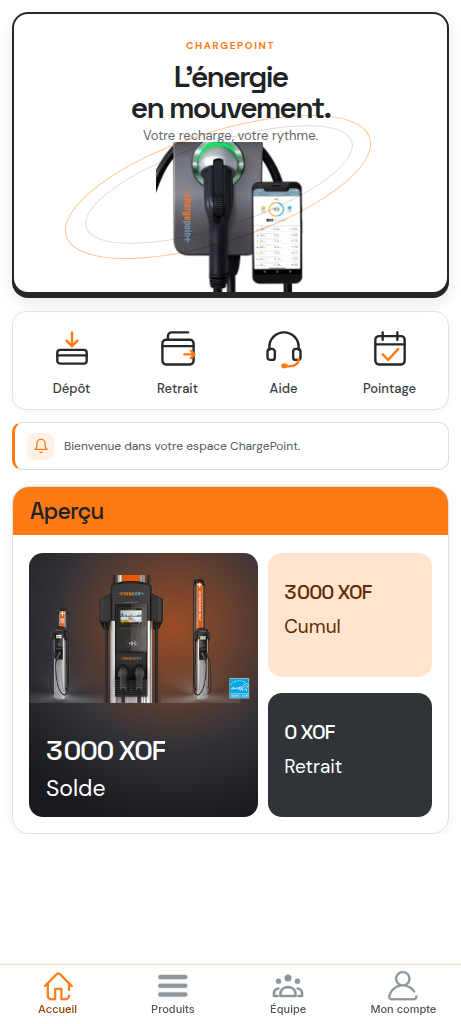
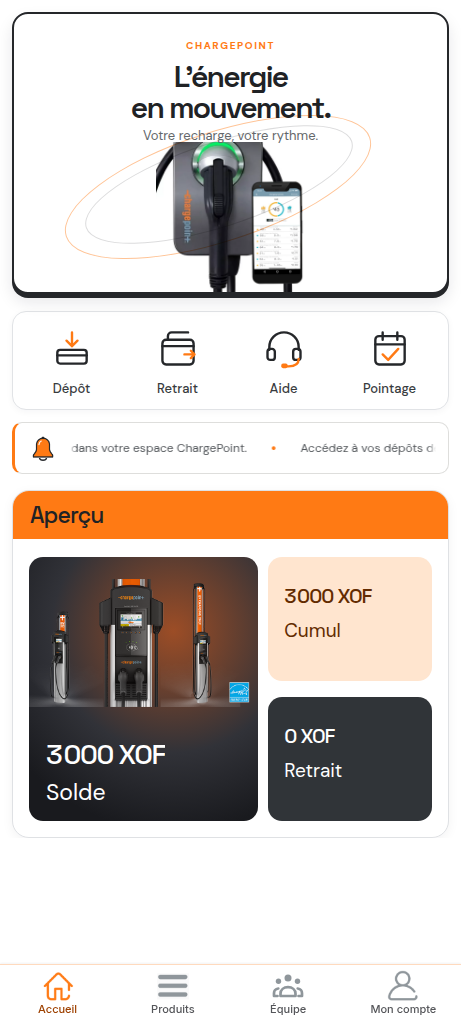
Update agent metadata and enhance home page UI with new assets
Replit-Commit-Author: Agent

diff --git a/client/src/pages/home.tsx b/client/src/pages/home.tsx
@@ -3,11 +3,12 @@ import { useAuth } from "@/lib/auth";
 import { useLocation } from "wouter";
 import { useQuery } from "@tanstack/react-query";
 import { getCountryByCode } from "@/lib/countries";
-import { Bell, PlugZap } from "lucide-react";
+import { PlugZap } from "lucide-react";
 import { Dialog, DialogContent, DialogHeader, DialogTitle } from "@/components/ui/dialog";
 import HomeActionIcon from "@/components/home-action-icon";
 import "./home.css";
 
+import noticeBell from "@/assets/notice-bell.png";
 import homeFlex from "@assets/ChargePoint-Home-Flex-50A-CPH50-app-1280px__29346__78945__7114_1790148214522.png";
 import ct4000 from "@assets/CT4000-Top-main-with-energy-star_1790148214627.png";
 
@@ -23,6 +24,15 @@ const quickActions = [
   { label: "Pointage", href: "/checkin", kind: "checkin" },
 ] as const;
 
+const homeAnnouncements = [
+  "Bienvenue dans votre espace ChargePoint.",
+  "Accédez à vos dépôts depuis l'accueil.",
+  "Suivez vos retraits dans l'application.",
+  "Consultez votre solde dans la rubrique Aperçu.",
+  "Besoin d'aide ? Notre équipe vous accompagne.",
+  "Effectuez votre pointage depuis l'accueil.",
+] as const;
+
 export default function HomePage() {
   const { user } = useAuth();
   const [, navigate] = useLocation();
@@ -35,9 +45,6 @@ export default function HomePage() {
   const currency = country?.currency || "XOF";
   const balance = Number.parseFloat(user.balance || "0");
   const totalEarnings = Number.parseFloat(user.totalEarnings || "0");
-  const noticeText = settings?.noticeText && !/stone by ton|pierres naturelles|travertin/i.test(settings.noticeText)
-    ? settings.noticeText
-    : "Bienvenue dans votre espace ChargePoint.";
   const groupLink = settings?.groupLink || "";
   const formatMoney = (amount: number) => `${Math.round(amount).toLocaleString("fr-FR")} ${currency}`;
   const withdrawnTotal = withdrawals?.filter((item) => item.status === "approved")
@@ -71,9 +78,20 @@ export default function HomePage() {
             ))}
           </section>
 
-          <button className="cp-notice" type="button" onClick={() => setWelcomePopupOpen(true)} aria-label={`Informations : ${noticeText}`}>
-            <span className="cp-notice-icon"><Bell size={16} /></span>
-            <span>{noticeText}</span>
+          <button className="cp-notice" type="button" onClick={() => setWelcomePopupOpen(true)} aria-label="Ouvrir les informations ChargePoint" aria-describedby="cp-notice-messages">
+            <span className="cp-notice-icon"><img src={noticeBell} alt="" width={26} height={26} /></span>
+            <span className="cp-notice-marquee" aria-hidden="true">
+              <span className="cp-notice-track">
+                {[0, 1].map((copy) => (
+                  <span className="cp-notice-group" key={copy}>
+                    {homeAnnouncements.map((announcement, index) => (
+                      <span className="cp-notice-item" key={`${copy}-${index}`}>{announcement}</span>
+                    ))}
+                  </span>
+                ))}
+              </span>
+            </span>
+            <span className="sr-only" id="cp-notice-messages">{homeAnnouncements.join(". ")}</span>
           </button>
 
           <section className="cp-overview" aria-labelledby="overview-title">

diff --git a/client/src/pages/home.css b/client/src/pages/home.css
@@ -29,8 +29,16 @@
 .cp-action:hover .cp-action-icon { transform:translateY(-3px); }
 .cp-action:focus-visible,.cp-notice:focus-visible,.cp-balance:focus-visible { outline:2px solid var(--cp-orange); outline-offset:2px; }
 .cp-notice { display:flex; align-items:center; gap:10px; width:calc(100% - 24px); margin:12px 12px 0; min-height:48px; padding:9px 12px; border:1px solid #dededc; border-left:3px solid var(--cp-orange); border-radius:10px; background:#fff; text-align:left; color:#52565a; font-size:12px; overflow:hidden; cursor:pointer; }
-.cp-notice-icon { flex:none; color:var(--cp-orange); display:grid; place-items:center; width:27px;height:27px; border-radius:8px; background:#fff1e6; }
-.cp-notice span:last-child { overflow:hidden; white-space:nowrap; text-overflow:ellipsis; }
+.cp-notice-icon { flex:none; display:grid; place-items:center; width:32px; height:32px; }
+.cp-notice-icon img { display:block; width:26px; height:26px; object-fit:contain; }
+.cp-notice-marquee { flex:1; min-width:0; overflow:hidden; -webkit-mask-image:linear-gradient(90deg,transparent,#000 8px,#000 calc(100% - 8px),transparent); mask-image:linear-gradient(90deg,transparent,#000 8px,#000 calc(100% - 8px),transparent); }
+.cp-notice-track { display:flex; width:max-content; animation:cp-notice-scroll 45s linear infinite; }
+.cp-notice-group { display:flex; flex:none; align-items:center; }
+.cp-notice-item { display:inline-flex; flex:none; align-items:center; gap:24px; margin-right:24px; white-space:nowrap; }
+.cp-notice-item::after { content:"•"; color:var(--cp-orange); font-size:15px; line-height:1; }
+.cp-notice:hover .cp-notice-track,.cp-notice:focus-visible .cp-notice-track { animation-play-state:paused; }
+@keyframes cp-notice-scroll { to { transform:translateX(-50%); } }
+@media (prefers-reduced-motion:reduce) { .cp-notice-track { animation:none; }.cp-notice-group:not(:first-child),.cp-notice-item:not(:first-child),.cp-notice-item::after { display:none; } }
 .cp-overview { margin:16px 12px 0; padding:0 16px 16px; border:1px solid #dfe1e4; border-radius:17px; background:#fff; overflow:hidden; box-shadow:0 3px 12px rgba(17,24,39,.05); }
 .cp-section-heading { display:flex; align-items:center; margin:0 -16px 18px; padding:10px 17px; background:var(--cp-orange); }
 .cp-section-heading h2 { margin:0; font:500 23px/28px "Space Grotesk"; letter-spacing:-.04em; }

diff --git a/.agents/memory/demo-referrals.md b/.agents/memory/demo-referrals.md
@@ -1,10 +1,12 @@
 ---
 name: Demo referrals
-description: How to treat persistent fictitious referrals on a real account
+description: How to treat fictitious referrals and financial-looking activity examples
 ---
 
-When a user explicitly requests fictitious referrals saved to their real account, treat them as demonstration records: clearly label them, prevent sign-in and direct contact with invented numbers, and do not grant balances, purchases, commissions, or signup bonuses. Their presence still changes team-member counts. Realistic VIP, purchase, and bonus examples may be shown as display-only previews, never as financial ledger records. A WhatsApp preview may open a prefilled message without a recipient.
+When a user explicitly requests fictitious referrals saved to their real account, treat them as demonstration records: clearly label them, prevent sign-in and direct contact with invented numbers, and do not grant balances, purchases, commissions, or signup bonuses. Their presence still changes team-member counts. Realistic VIP, purchase, and bonus examples may be shown as display-only previews, never as financial ledger records. A WhatsApp preview may open a prefilled message without a recipient. Likewise, home-page snippets about masked numbers and bonus or withdrawal amounts are illustrative only: label them as fictitious, and never connect them to actual balances or payout events.
 
-**Why:** The user chose persistent test accounts over a temporary preview, then requested realistic numbers and a visible WhatsApp action. These accounts share the actual referral database; simulated financial activity or a link addressed to an invented number would mislead users or potentially contact unrelated people.
+**Why:** The user chose persistent test accounts over a temporary preview, then requested realistic numbers and a visible WhatsApp action. These accounts share the actual referral database; simulated financial activity or a link addressed to an invented number would mislead users or potentially contact unrelated people. The user also requested only rotating examples on home, not claims about genuine transactions.
 
-**How to apply:** Preserve the distinction whenever referral displays, earnings calculations, contact actions, or cleanup of demo members change. Keep genuine financial totals separate from clearly marked examples, and never treat these records as genuine paying referrals.
+**How to apply:** Preserve the distinction whenever referral displays, earnings calculations, activity announcements, contact actions, or cleanup of demo members change. Keep genuine financial totals separate from clearly marked examples, and never treat these records as genuine paying referrals.
+
+If a user asks to remove fictitious/demo labels from a rotating activity banner, replace its invented financial events with neutral app messages or verified events; never leave invented payouts looking like real activity. This does not automatically authorize hiding or deleting separate demo referrals on the Team pages.

diff --git a/.agents/memory/ton-green-theme.md b/.agents/memory/ton-green-theme.md
@@ -8,3 +8,9 @@ The previous TON green refresh is legacy styling on pages not yet rebranded. New
 **Why:** The user previously requested TON green outside the dashboard, but subsequently chose ChargePoint as the new company. They explicitly requested a ChargePoint version of a supplied home-page screenshot with a pure white background, superseding the earlier request to preserve the old dashboard design. They later emphasized that home should have the professional finish of registration without becoming a marketing page: it is an app under development.
 
 **How to apply:** Use ChargePoint orange for newly requested redesigns, not a global theme change. On home, prefer white module backgrounds and spacing or borders between the banner and functional sections rather than colored page backgrounds; preserve routes and real values. Preserve older screens until explicitly requested.
+
+For the home announcement banner, use a real transparent PNG image asset for its icon, rather than a CSS-drawn or inline-vector icon.
+
+**Why:** The user explicitly requested a PNG icon with a native-app feel for this banner and rejected CSS-based icon graphics.
+
+**How to apply:** Preserve the banner icon as an image element in future redesigns; CSS may size and position the image, but should not draw the icon itself.

diff --git a/.agents/memory/MEMORY.md b/.agents/memory/MEMORY.md
@@ -10,5 +10,5 @@
 - [InPay IP whitelist](inpay-ip-whitelist.md) — InPay rejects API calls with errno 5 until the server's public egress IP is whitelisted.
 - [AshtechPay Burkina flow](ashtechpay-burkina.md) — BF uses exact operator names and requires the returned reference on OTP retries.
 - [Country availability](country-availability.md) — retire countries by deactivating them, not deleting historical records; confirm existing-account impact first.
-- [Demo referrals](demo-referrals.md) — persistent fictitious filleuls are explicitly labeled and financially inert; their counts still appear in team statistics.
+- [Fictitious financial examples](demo-referrals.md) — demo referrals and rotating activity snippets stay labeled as fictitious and never affect actual money.
 - [Dev workflow port conflict](workflow-port-conflict.md) — a failed restart can leave a prior server child listening on port 5000; inspect the listener before retrying.
